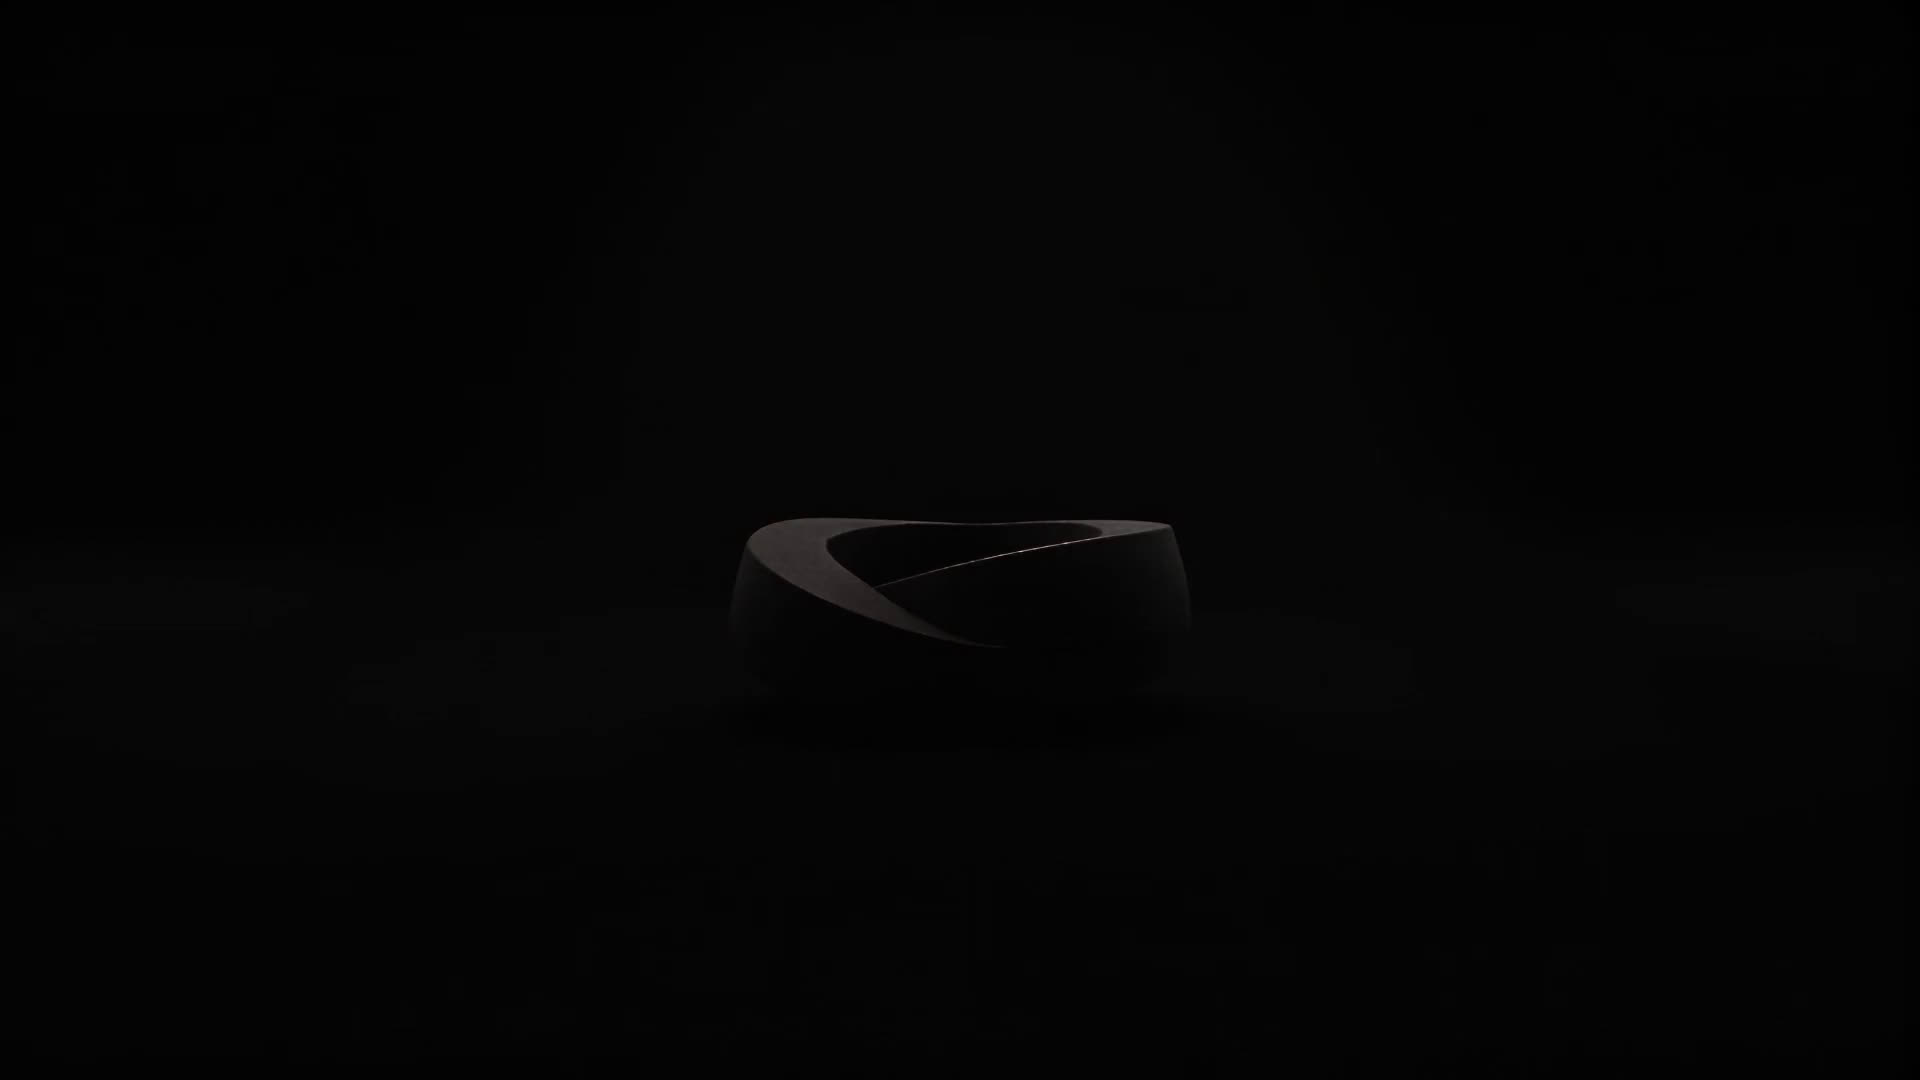
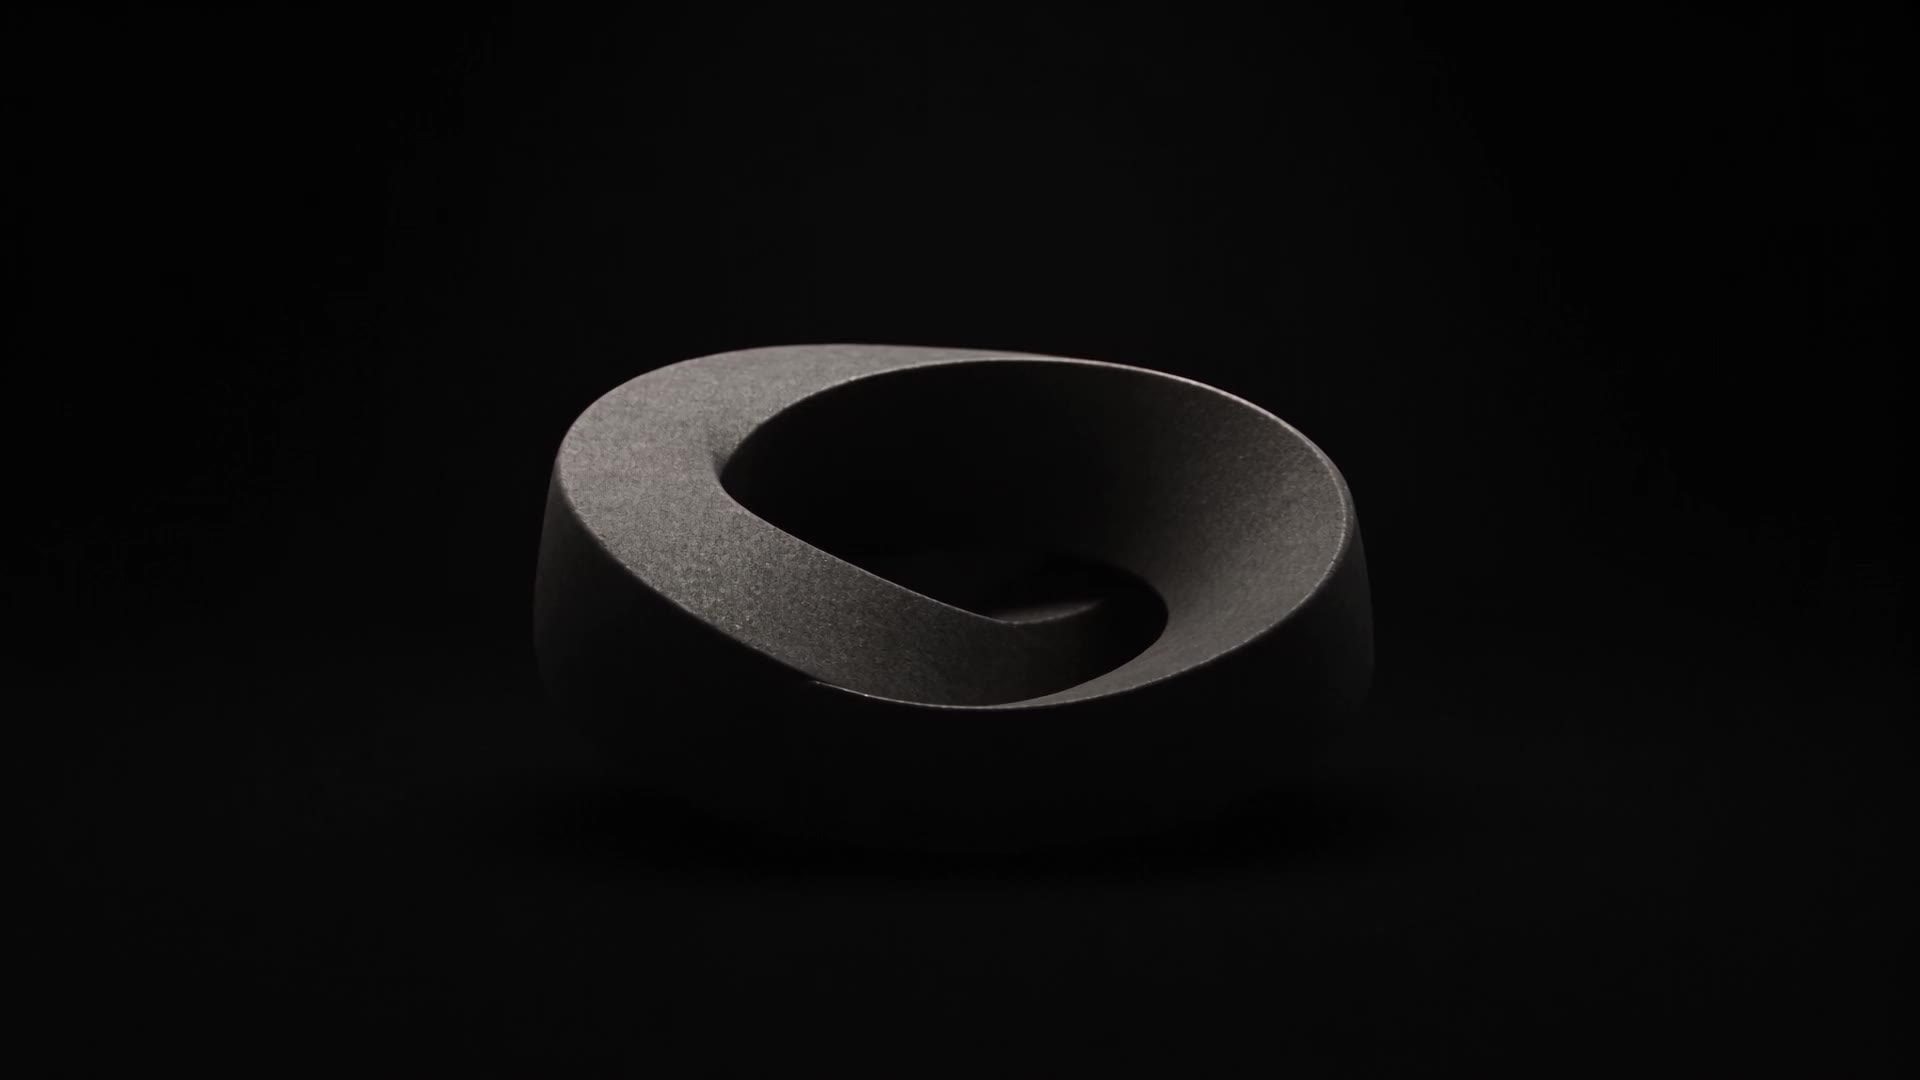
Pattern the closings, start the film where it is visible, and make five a capacity
THE FILM. Rahaid photographed the homepage's dark anchor and said it doesn't
work. It did work; there was just nothing to see. Sampled at 4fps across all
15.04s, the 95th-percentile luminance of a frame first clears 40 of 255 at
t=6.00s — 39.9% in. Everything before that is a black rectangle, and the
poster was blacker still at mean 4.4. So the scrub now starts at 40% and the
remaining 9s carry the whole scroll; posters regenerated from t=6.00s, mean
4.7 -> 11.1. The reveal survives, the dead lead-in does not. The anchor stays:
brand/DESIGN.md calls for exactly one dark anchor at the foot of the homepage
and it is the answer to the "you don't know what to look at" feedback.

THE PATTERN. Five pages carried a heading, a 16px sub, two routes out and a
seats note; the homepage carried an eyebrow, three 20px .lede paragraphs, one
inline field and no note. It now uses the same parts, in the dark section's
own colours. The copy stays — two of those three paragraphs make a claim that
appears nowhere else on the page, so condensing them to match a shape would
have cost real selling copy, not just words. The inline brand-name field stays
too: it replaced the Apply pill on Rahaid's instruction (2026-09-07, "it looks
vibecoded"), so the second route is added beside it rather than in place of it.

The parity guard caught drift nobody had noticed: three pages carried
data-seats and rendered no marks, because seats.js was never loaded on them.
[…]

Changed region(s): [[0.2812, 0.3056, 0.5625, 0.6722], [0.5625, 0.3361, 0.7188, 0.6417]]

diff --git a/index.html b/index.html
@@ -430,6 +430,18 @@
 
     .closing{text-align:center}
     .closing h2{max-width:18ch;margin:0 auto}
+    /* Matched to the closing on about/contact and the three question pages:
+       16px sub capped at 52ch, the same two routes out, and the seats note.
+       Rahaid: "pattern this, it's not constant even the design is different".
+       The copy stays - two of these three paragraphs make a claim that appears
+       nowhere else on this page, so condensing them to match a shape would
+       have cost the page real selling copy, not just words. */
+    .closing .closing-sub{font-size:16px;font-weight:400;max-width:52ch;
+      margin:18px auto 0;line-height:1.65}
+    .closing .closing-sub:first-of-type{margin-top:24px}
+    .closing .hero-ctas.start{margin-top:36px}
+    .closing .btn-quiet{border-bottom-color:rgba(247,246,244,.34)}
+    .closing-note{margin-top:24px;font-size:13px;--kz-seat:rgba(247,246,244,.62)}
 
     footer{background:rgba(233,230,224,.55);border-top:1px solid var(--hairline);padding:56px 0 40px;font-size:14px}
     .f-grid{display:grid;gap:34px}
@@ -695,17 +707,19 @@
     <div class="scrub-scrim"></div>
   </div>
   <div class="container reveal">
-    <div class="smallcaps">The first five</div>
-    <h2>We&rsquo;re taking five clients to start.</h2>
-    <p class="lede">Just the two of us. We make the work and run it ourselves, so there&rsquo;s no account manager between you and the people doing it.</p>
-    <p class="lede">We don&rsquo;t have client results to show yet, and we won&rsquo;t borrow someone else&rsquo;s. That&rsquo;s why the first five pay a founding price. If you&rsquo;d rather wait for proof, wait. The founding price won&rsquo;t.</p>
-    <p class="lede">Tell us what you sell and what it costs you to make. Fifteen minutes tells us whether we can help, and if we can&rsquo;t we&rsquo;ll say so. Either way you&rsquo;ll leave knowing what a customer is actually worth to you, which is more than most people get from a call.</p>
+    <div class="smallcaps">Five at a time</div>
+    <h2>We only work with five clients at a time.</h2>
+    <p class="closing-sub">Just the two of us. We make the work and run it ourselves, so there&rsquo;s no account manager between you and the people doing it.</p>
+    <p class="closing-sub">We don&rsquo;t have client results to show yet, and we won&rsquo;t borrow someone else&rsquo;s. That&rsquo;s why the seats open now are priced as founding seats. If you&rsquo;d rather wait for proof, wait. The founding rate won&rsquo;t.</p>
+    <p class="closing-sub">Tell us what you sell and what it costs you to make. Fifteen minutes tells us whether we can help, and if we can&rsquo;t we&rsquo;ll say so. Either way you&rsquo;ll leave knowing what a customer is actually worth to you, which is more than most people get from a call.</p>
     <div class="hero-ctas start">
       <form class="ke-start" action="apply.html" method="get">
         <input type="text" name="b" autocomplete="organization" aria-label="What&rsquo;s your brand called?" placeholder="What&rsquo;s your brand called?">
         <button class="ke-start-go" type="submit" aria-label="Take a seat"><svg width="15" height="11" viewBox="0 0 17 12" aria-hidden="true"><path d="M0 5h11.6L7.9 1.3 9.2 0 15.2 6l-6 6-1.3-1.3L11.6 7H0z" fill="currentColor"/></svg></button>
       </form>
+      <a href="mailto:diego@kaizenevol.com" class="btn-quiet">Email us directly</a>
     </div>
+    <p class="closing-note" data-seats="5" data-taken="1">Every seat gets both of us, start to finish.</p>
   </div>
 </section>
 

diff --git a/scrub.js b/scrub.js
@@ -102,13 +102,22 @@
     }
   });
 
+  // The clip opens on black and the form only emerges part-way in. Measured at
+  // 4fps across all 15.04s: the 95th-percentile luminance of a frame first
+  // clears 40 (of 255) at t=6.00s, 39.9% in. Everything before that is a black
+  // rectangle, which on a phone is exactly what the top of the section looked
+  // like - Rahaid: "the black page doesn't even work". So the scrub starts
+  // there and the remaining 9s carry the whole scroll. The reveal survives; the
+  // dead lead-in does not.
+  var START = 0.40;
+
   function tick() {
     frame = 0;
     if (!duration) return;
     // Ease toward the target so a flung scroll does not machine-gun seeks.
     current += (target - current) * 0.18;
     if (Math.abs(target - current) < 0.0008) current = target;
-    var t = current * duration;
+    var t = (START + current * (1 - START)) * duration;
     if (video.fastSeek) {
       try { video.fastSeek(t); } catch (e) { video.currentTime = t; }
     } else {

diff --git a/ads-for-musicians.html b/ads-for-musicians.html
@@ -267,7 +267,7 @@
       <a href="apply.html" class="btn-solid">Take a seat &rarr;</a>
       <a href="mailto:diego@kaizenevol.com" class="btn-quiet">Email us directly</a>
     </div>
-    <p class="closing-note" data-seats="5" data-taken="1">Five at a time, so every one of them gets the founders.</p>
+    <p class="closing-note" data-seats="5" data-taken="1">Every seat gets both of us, start to finish.</p>
   </div>
 </section>
 </main>
@@ -330,5 +330,6 @@ document.addEventListener('keydown',function(e){if(e.key==='Escape')m.style.disp
 </script>
 <script src="/midnight.js?v=21" defer></script>
 <script defer src="/script.js"></script>
+<script src="/seats.js" defer></script>
 </body>
 </html>

diff --git a/can-i-do-this-myself.html b/can-i-do-this-myself.html
@@ -267,7 +267,7 @@
       <a href="apply.html" class="btn-solid">Take a seat &rarr;</a>
       <a href="mailto:diego@kaizenevol.com" class="btn-quiet">Email us directly</a>
     </div>
-    <p class="closing-note" data-seats="5" data-taken="1">Five at a time, so every one of them gets the founders.</p>
+    <p class="closing-note" data-seats="5" data-taken="1">Every seat gets both of us, start to finish.</p>
   </div>
 </section>
 </main>
@@ -330,5 +330,6 @@ document.addEventListener('keydown',function(e){if(e.key==='Escape')m.style.disp
 </script>
 <script src="/midnight.js?v=21" defer></script>
 <script defer src="/script.js"></script>
+<script src="/seats.js" defer></script>
 </body>
 </html>

diff --git a/tried-ads-before.html b/tried-ads-before.html
@@ -267,7 +267,7 @@
       <a href="apply.html" class="btn-solid">Take a seat &rarr;</a>
       <a href="mailto:diego@kaizenevol.com" class="btn-quiet">Email us directly</a>
     </div>
-    <p class="closing-note" data-seats="5" data-taken="1">Five at a time, so every one of them gets the founders.</p>
+    <p class="closing-note" data-seats="5" data-taken="1">Every seat gets both of us, start to finish.</p>
   </div>
 </section>
 </main>
@@ -330,5 +330,6 @@ document.addEventListener('keydown',function(e){if(e.key==='Escape')m.style.disp
 </script>
 <script src="/midnight.js?v=21" defer></script>
 <script defer src="/script.js"></script>
+<script src="/seats.js" defer></script>
 </body>
 </html>

diff --git a/interactions.css b/interactions.css
@@ -400,8 +400,18 @@ footer img, footer .nav-logo img, footer .brand img { view-transition-name: none
 }
 
 .scrub h2,
-.scrub .lede {
+.scrub .lede,
+.scrub .closing-sub {
   color: var(--page, #f7f6f4);
+}
+/* The sub and the note sit back from the heading on a dark ground the same way
+   --muted sits back from --ink on a light one. */
+.scrub .closing-sub {
+  color: rgba(247, 246, 244, 0.74);
+}
+.scrub .closing-note,
+.scrub .btn-quiet {
+  color: rgba(247, 246, 244, 0.6);
 }
 .scrub .smallcaps {
   color: var(--stone, #8a857c);
